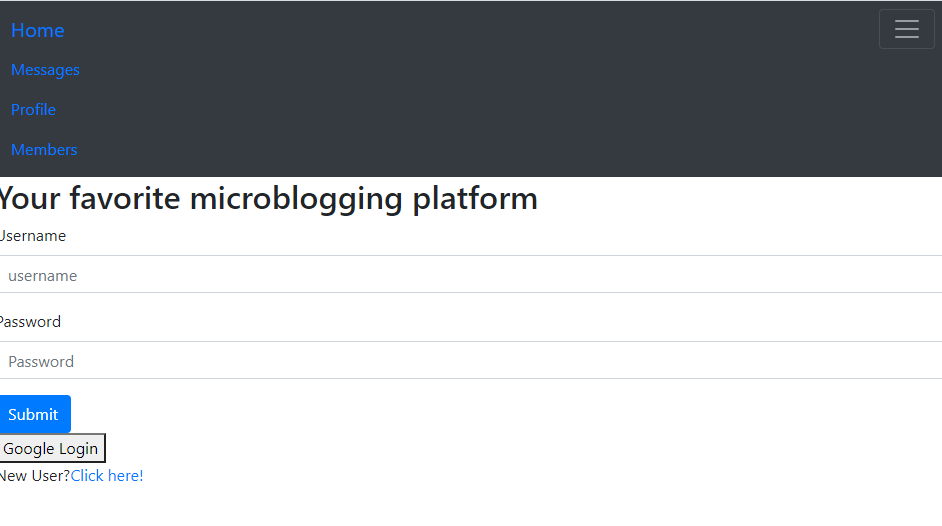
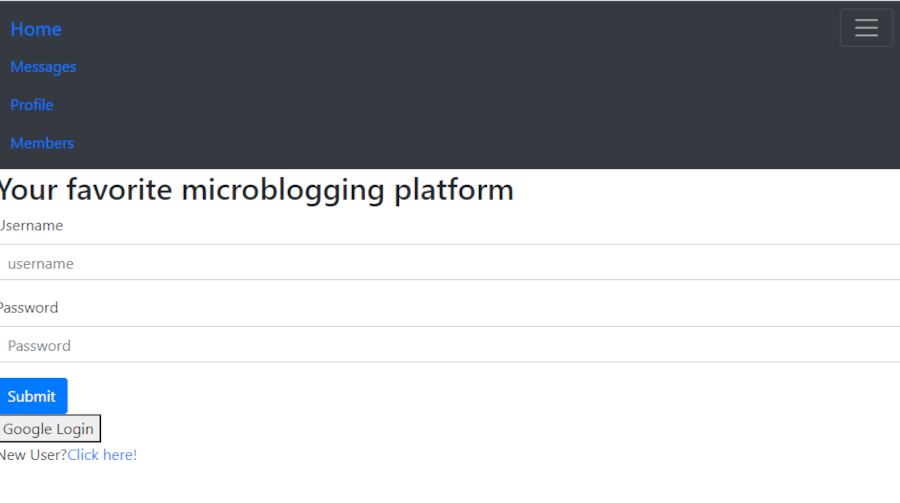
changed some styles to adapt a mobile friendly approach

diff --git a/src/components/Navigation.js b/src/components/Navigation.js
@@ -6,7 +6,7 @@ import { faGithubAlt, faInstagram, faLinkedin, faTwitter } from "@fortawesome/fr
 import "./Navigation.css";
 const Navigation = () => {
   return (
-    <div>
+    <div className="navbar">
       <Navbar collapseOnSelect expand="lg" bg="dark" variant="dark">
         <Navbar.Brand>
           <Link className="link" to="/" style={{ color: "lightgreen" }}>

diff --git a/src/index.css b/src/index.css
@@ -1,5 +1,5 @@
 body {
-  margin: 0;
+  margin: 1;
   font-family: -apple-system, BlinkMacSystemFont, "Segoe UI", "Roboto", "Oxygen", "Ubuntu", "Cantarell", "Fira Sans", "Droid Sans",
     "Helvetica Neue", sans-serif;
   -webkit-font-smoothing: antialiased;

diff --git a/src/components/AboutMe/AboutMe.css b/src/components/AboutMe/AboutMe.css
@@ -9,8 +9,9 @@ h4 {
   justify-content: center;
   align-items: center;
   flex-direction: column;
-  width: 80vw;
-  height: 120vh;
+  flex-wrap: wrap;
+  /* width: 80vw;
+  height: 120vh; */
   margin: auto;
   margin-top: auto;
 }

diff --git a/src/components/projects/projectcss.css b/src/components/projects/projectcss.css
@@ -3,7 +3,8 @@
   justify-content: space-between;
   align-items: center;
   flex-wrap: wrap;
-  width: 96rem;
+  flex-grow: 1;
+  /* width: 96rem; */
   height: fit-content;
   margin: auto;
 }

diff --git a/src/components/Navigation.css b/src/components/Navigation.css
@@ -4,3 +4,8 @@
   transform: scale(1.3);
   transition: transform 500ms ease;
 }
+
+.navbar {
+  display: flex;
+  flex-grow: 1;
+}
